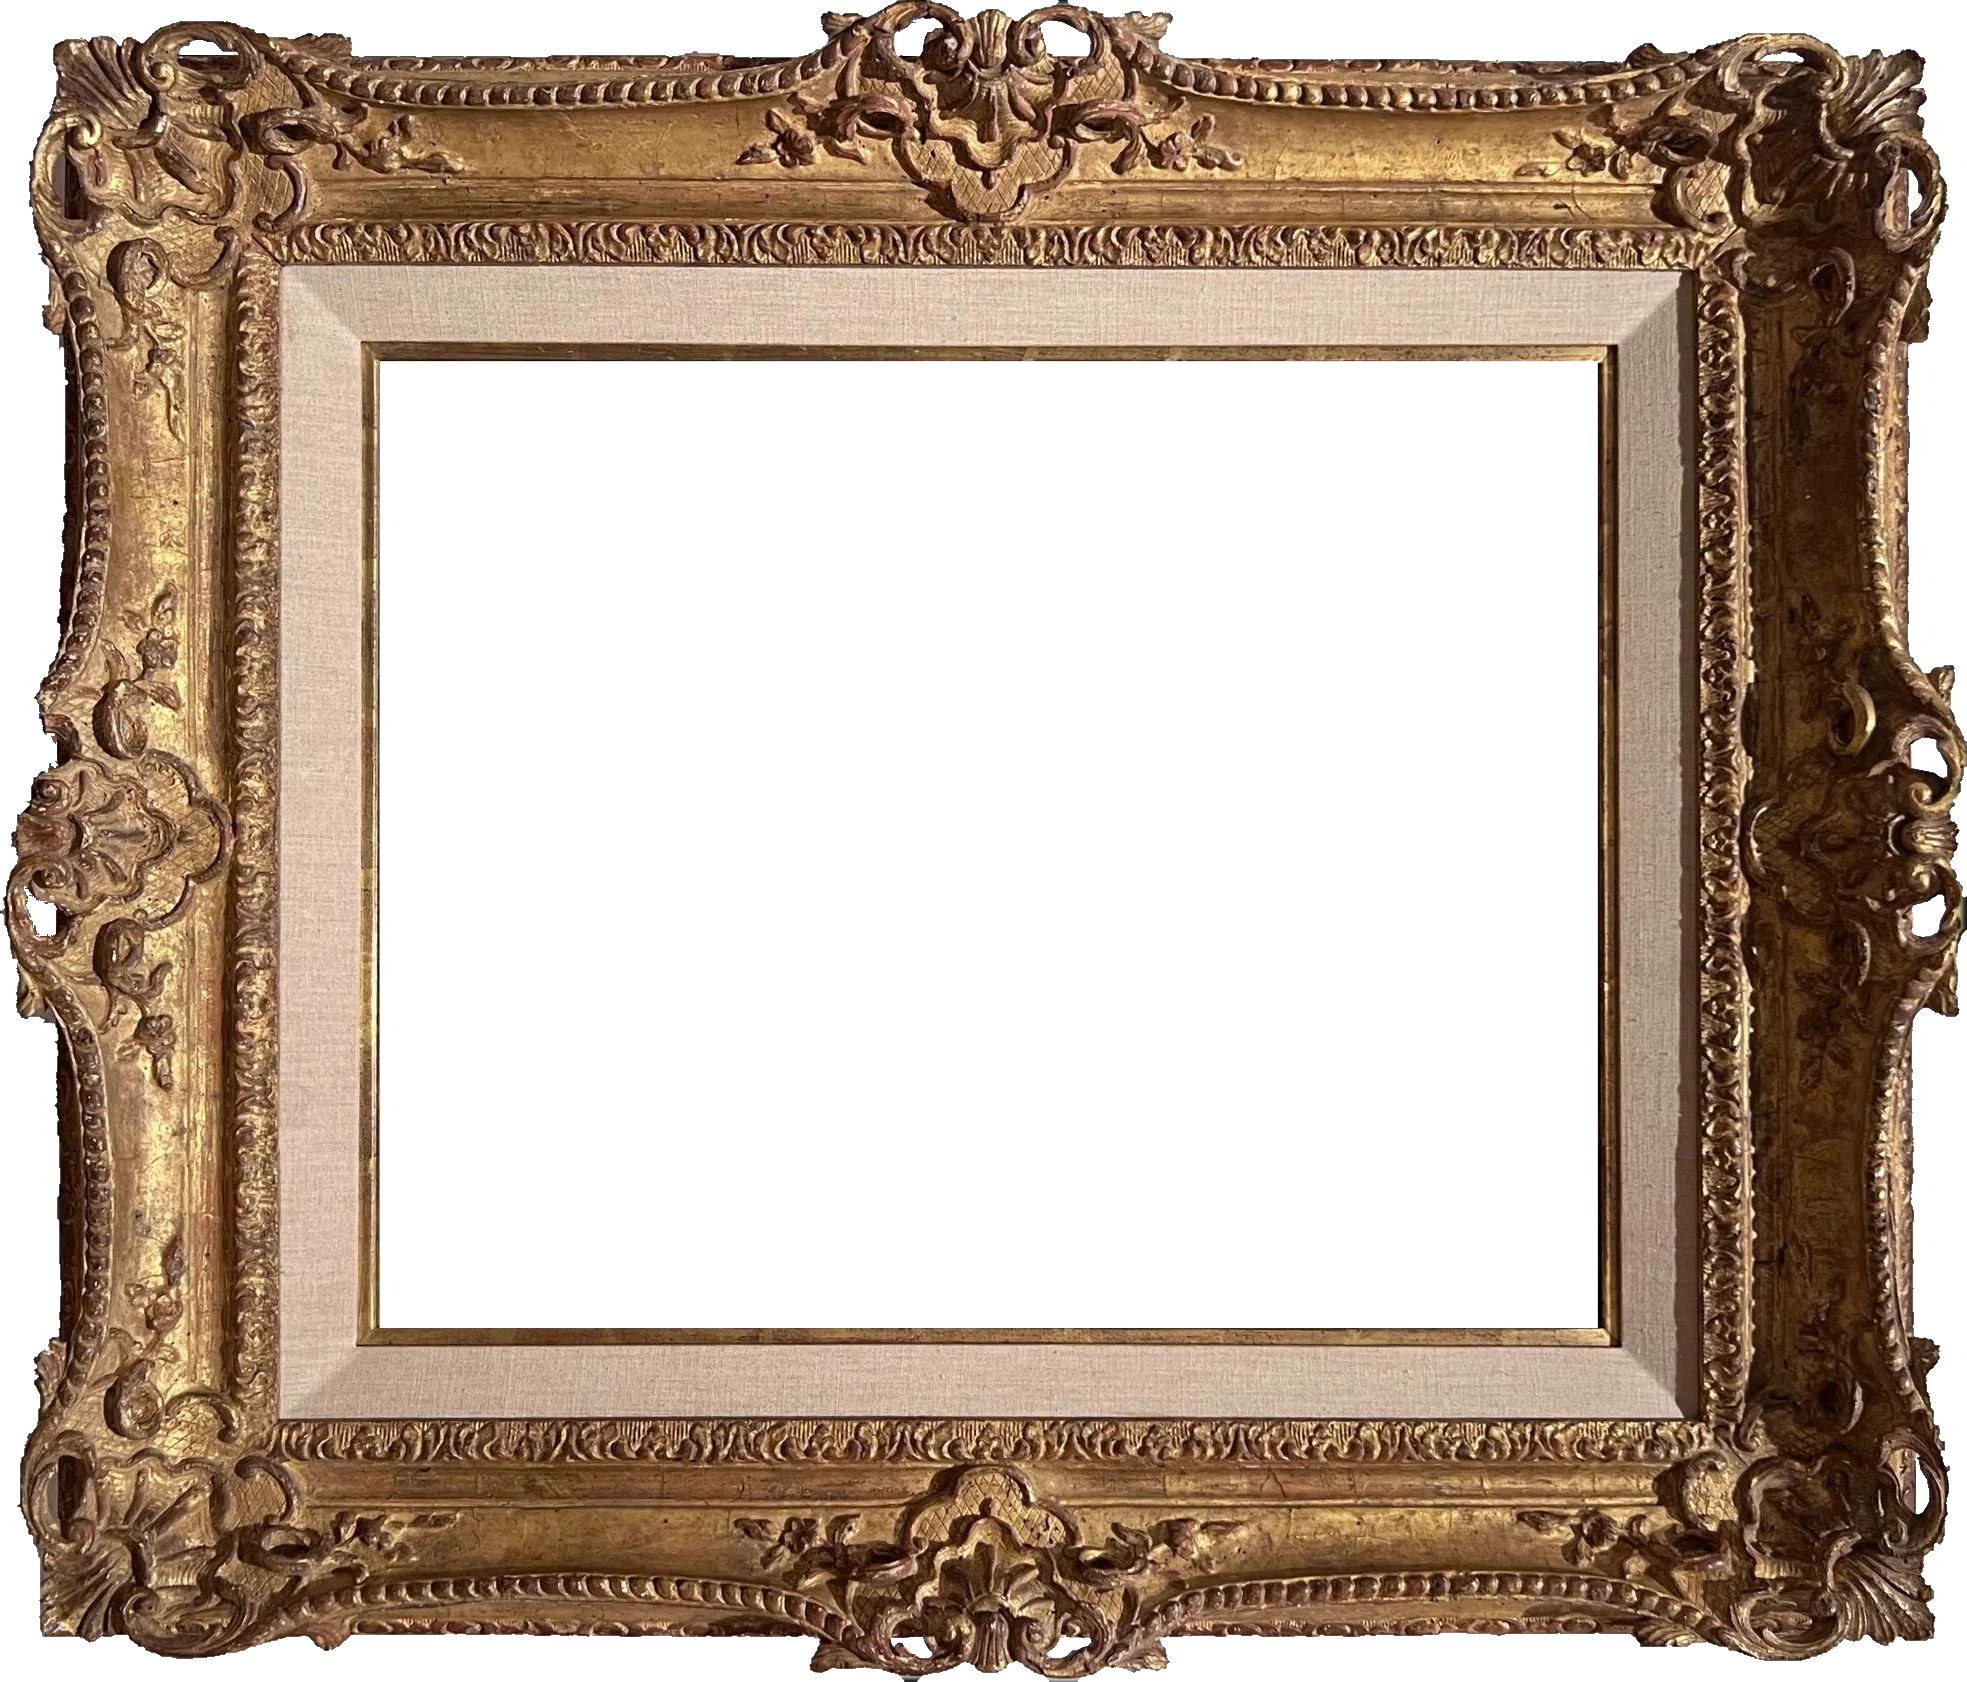
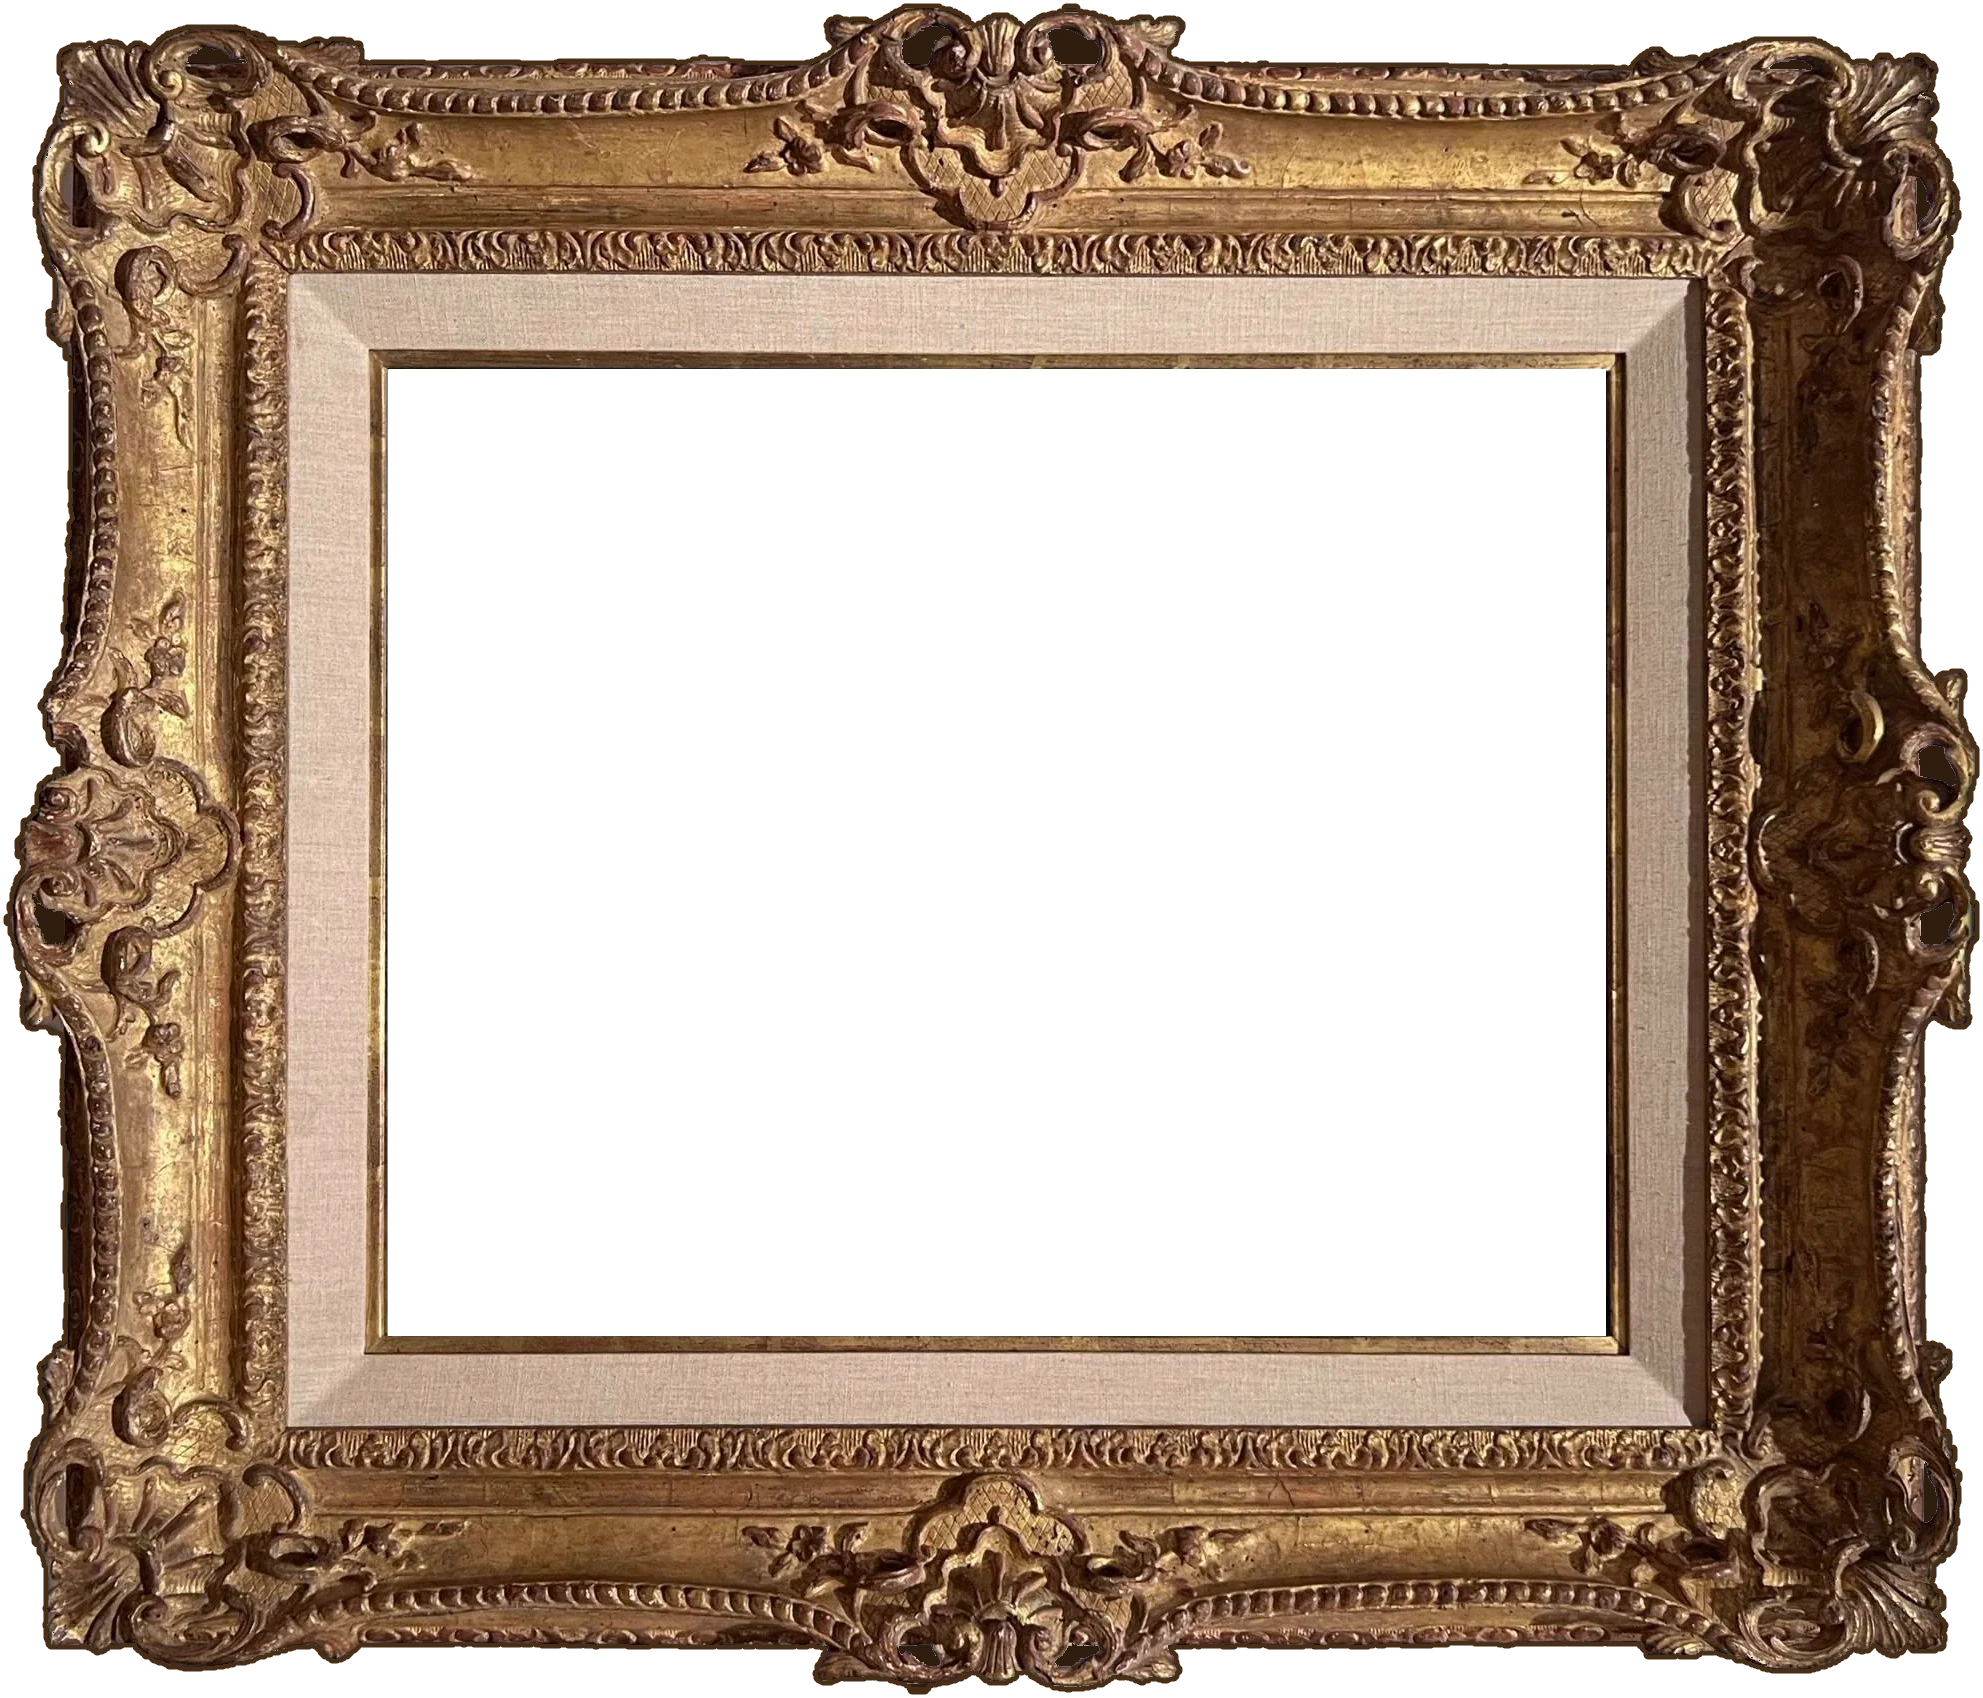
Ornate frame: grey slivers and pale spots removed, a fine brown outline, a shadow that no longer leaves a light line
- frames/gilt-frame.webp and its landscape twin: slivers of the grey wall
  left along the cut-out are gone, the pierced holes in the carving are
  filled with shadow brown instead of showing the page through, and a fine
  dark brown outline is drawn round the carving. 8 clear pixels on every
  side hold the outline, and the frame's widths in style.css are widened
  to match.
- The frame's shadow box (.plate-face::before) is set further in, 74 file
  pixels, so that no strip of unshadowed wall shows between it and the
  carving as a light line along the left side.

Changed region(s): [[0.0, 0.0, 1.0, 1.0]]

diff --git a/style.css b/style.css
@@ -633,7 +633,7 @@ button {
      of its opening. Its corners keep their shape; the runs between them
      stretch to the picture. --frame-weight below 1 makes a slimmer frame. */
   --frame-img: url("frames/gilt-frame.webp");
-  --ft: 369; --fr: 354; --fb: 380; --fl: 362;
+  --ft: 377; --fr: 362; --fb: 388; --fl: 370;
   --frame-long: 1218;
   --frame-weight: 1;
   /* the frame's share: how many picture widths the whole is wide, and high */
@@ -651,7 +651,7 @@ button {
 /* a wide picture takes the same frame turned on its side */
 .plate.wide {
   --frame-img: url("frames/gilt-frame-landscape.webp");
-  --ft: 362; --fr: 369; --fb: 354; --fl: 380;
+  --ft: 370; --fr: 377; --fb: 362; --fl: 388;
 }
 
 /* Arriving: the screen fades in over the finished puzzle, then the picture
@@ -675,11 +675,14 @@ button {
 }
 /* The frame's shadow on the wall, cast by a box set a little inside its carved
    edge. A drop-shadow filter followed the carving, but Safari on the iPhone
-   cut it off square, part of the way out. */
+   cut it off square, part of the way out. A box casts no shadow under itself, so
+   its edge must lie well inside the frame's, or a strip of bare wall shows
+   between them as a light line: the straight sides of the carving stand 49 to 70
+   pixels of the file in from its edge, and the box 74. */
 .plate-face::before {
   content: "";
   position: absolute;
-  inset: calc(var(--u) * 60);
+  inset: calc(var(--u) * 74);
   box-shadow: 0 8px 16px 3px rgba(var(--shadow-rgb), .5);
 }
 /* the picture runs a little way under the frame's lip, so no gap shows */

diff --git a/CLAUDE.md b/CLAUDE.md
@@ -10,7 +10,7 @@ Every button answers a tap with the stroke of a paintbrush on canvas, under half
 
 A puzzle that has been solved opens from its card on the finished picture in its frame, not on the pieces, and Solve Again deals it afresh; one begun again and left half done opens where it was left. On Expert that takes having solved it in black and white. The bar at the top of the gallery's pages, with the way back and the settings, stays put while the page scrolls under it (`.top`). Every card crops its picture to the same upright shape, so each puzzle's card carries a small outline in its top corner of the picture's own shape, tall, wide or square (`markShape` in `app.js`, `.shape` in `style.css`), drawn once the thumbnail is in.
 
-A solved puzzle hangs in a carved, gilt frame, a photograph cut out of its background: `frames/gilt-frame.webp`, and the same frame turned on its side, `frames/gilt-frame-landscape.webp`, for a picture wider than it is tall. The frame is drawn in nine pieces, so its corners keep their shape and only the runs between them stretch to the picture; the widths of its sides are set on `.plate` in `style.css`. Settings has a Frame choice between this one, Ornate, and Minimalist, the plain gilt edge the styles draw by themselves (`.frame`, put on by `.plate.plain`); the choice is remembered, and Ornate is the usual one. The photograph is the user's own, as `frames/CREDITS.md` records; a frame from anywhere else needs its photographer's CC0, a frame not being a flat work.
+A solved puzzle hangs in a carved, gilt frame, a photograph cut out of its background: `frames/gilt-frame.webp`, and the same frame turned on its side, `frames/gilt-frame-landscape.webp`, for a picture wider than it is tall. It carries a fine brown outline round the carving, drawn into the file, with 8 clear pixels on each side to hold it. The frame is drawn in nine pieces, so its corners keep their shape and only the runs between them stretch to the picture; the widths of its sides are set on `.plate` in `style.css`. Settings has a Frame choice between this one, Ornate, and Minimalist, the plain gilt edge the styles draw by themselves (`.frame`, put on by `.plate.plain`); the choice is remembered, and Ornate is the usual one. The photograph is the user's own, as `frames/CREDITS.md` records; a frame from anywhere else needs its photographer's CC0, a frame not being a flat work.
 
 ## Rights: everything must be fit for a paid app
 

diff --git a/frames/CREDITS.md b/frames/CREDITS.md
@@ -5,4 +5,4 @@
 | `gilt-frame.webp` | A carved, gilt frame with a linen liner, cut out of its background | Taken by the app's owner (stated 11 October 2026) | The owner's own work |
 | `gilt-frame-landscape.webp` | The same file turned a quarter turn | as above | as above |
 
-The opening, the surround and the pierced holes in the carving were made transparent, and a grey rim trimmed from the outer edge.
+The opening, the surround and the pierced holes in the carving were made transparent, and a grey rim trimmed from the outer edge. Slivers of the grey wall left along the right side (rows 889 to 1064 of the upright file) were removed on 13 October 2026, and a fine outline in dark brown (#482e18, about 5 pixels of the file) was drawn round the outside of the carving and its pierced holes, not round the opening. The pierced holes in the carving (47 of them, on the sides, crests and corners) were filled with a deep shadow brown (#2e1d0f) so that the wall does not show through them as pale spots, and grey left along the rim was repainted brown. The file has 8 clear pixels on every side so that the outline is not cut off.
